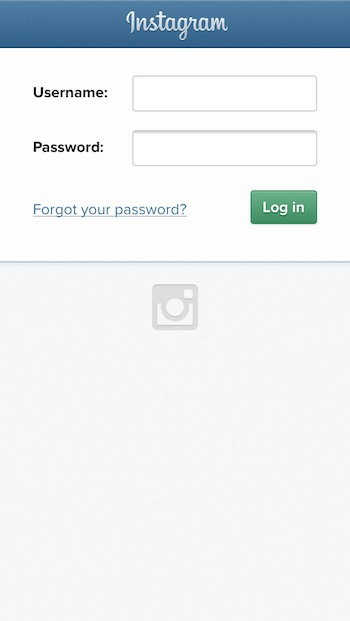
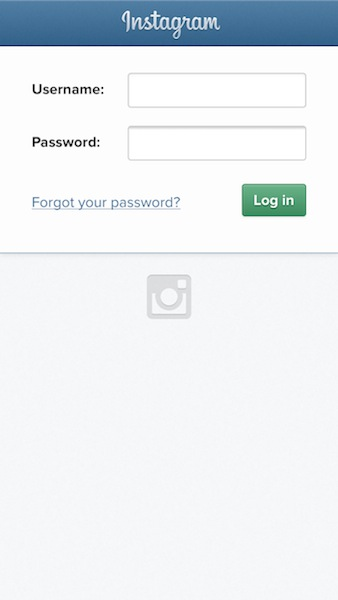
Update README.md and scale images down

diff --git a/README.md b/README.md
@@ -12,7 +12,7 @@ A quick and simple way to authenticate an Instagram user in your iPhone or iPad 
 
 1.  Add InstagramSimpleOAuth to your Podfile `pod 'InstagramSimpleOAuth'`.
 2.  Install the pod(s) by running `pod install`.
-3.  Include Swizzlean to your files with `#import <InstagramSimpleOAuth/InstagramSimpleOAuth.h>`.
+3.  Include InstagramSimpleOAuth to your files with `#import <InstagramSimpleOAuth/InstagramSimpleOAuth.h>`.
 
 ### Clone from Github
 
